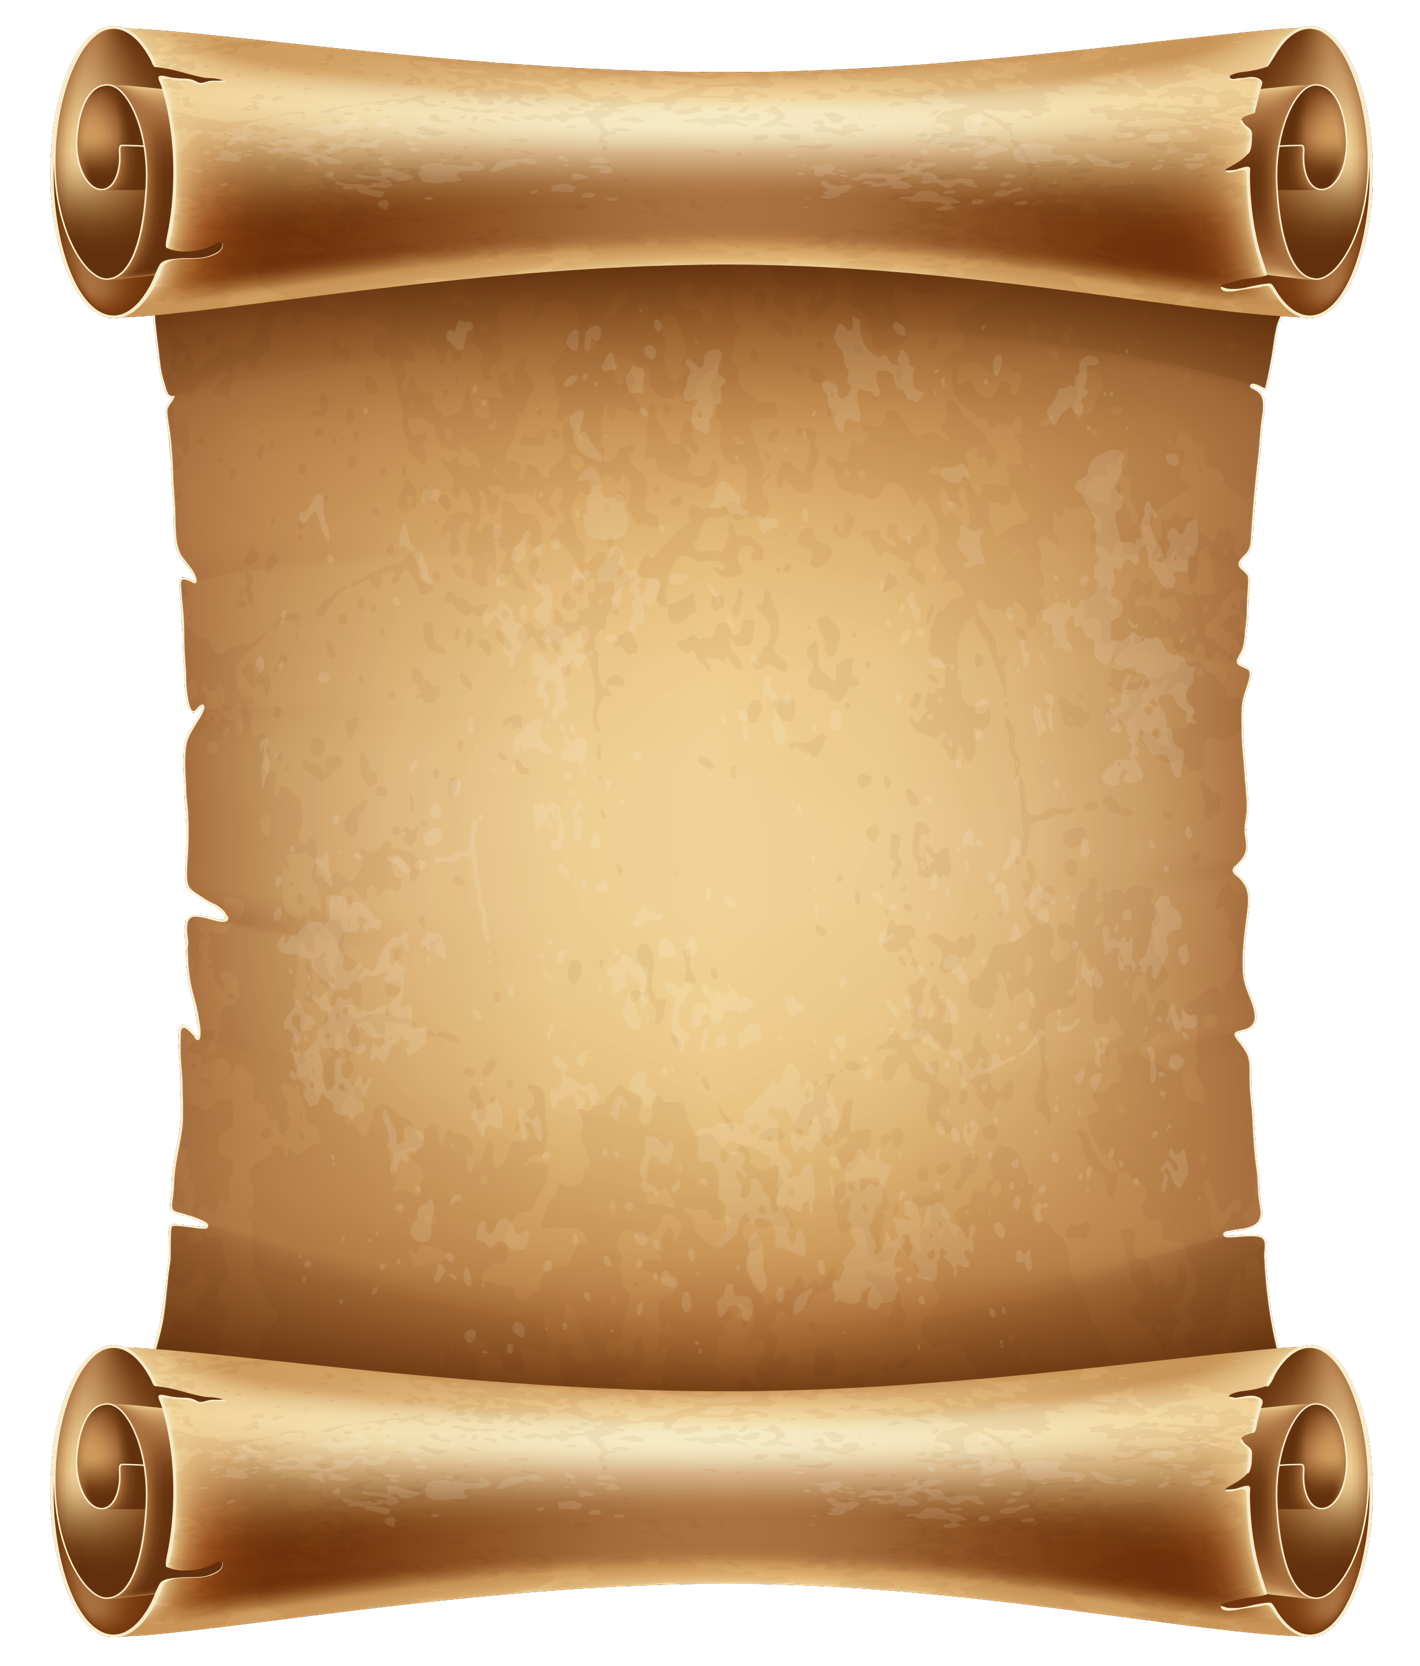
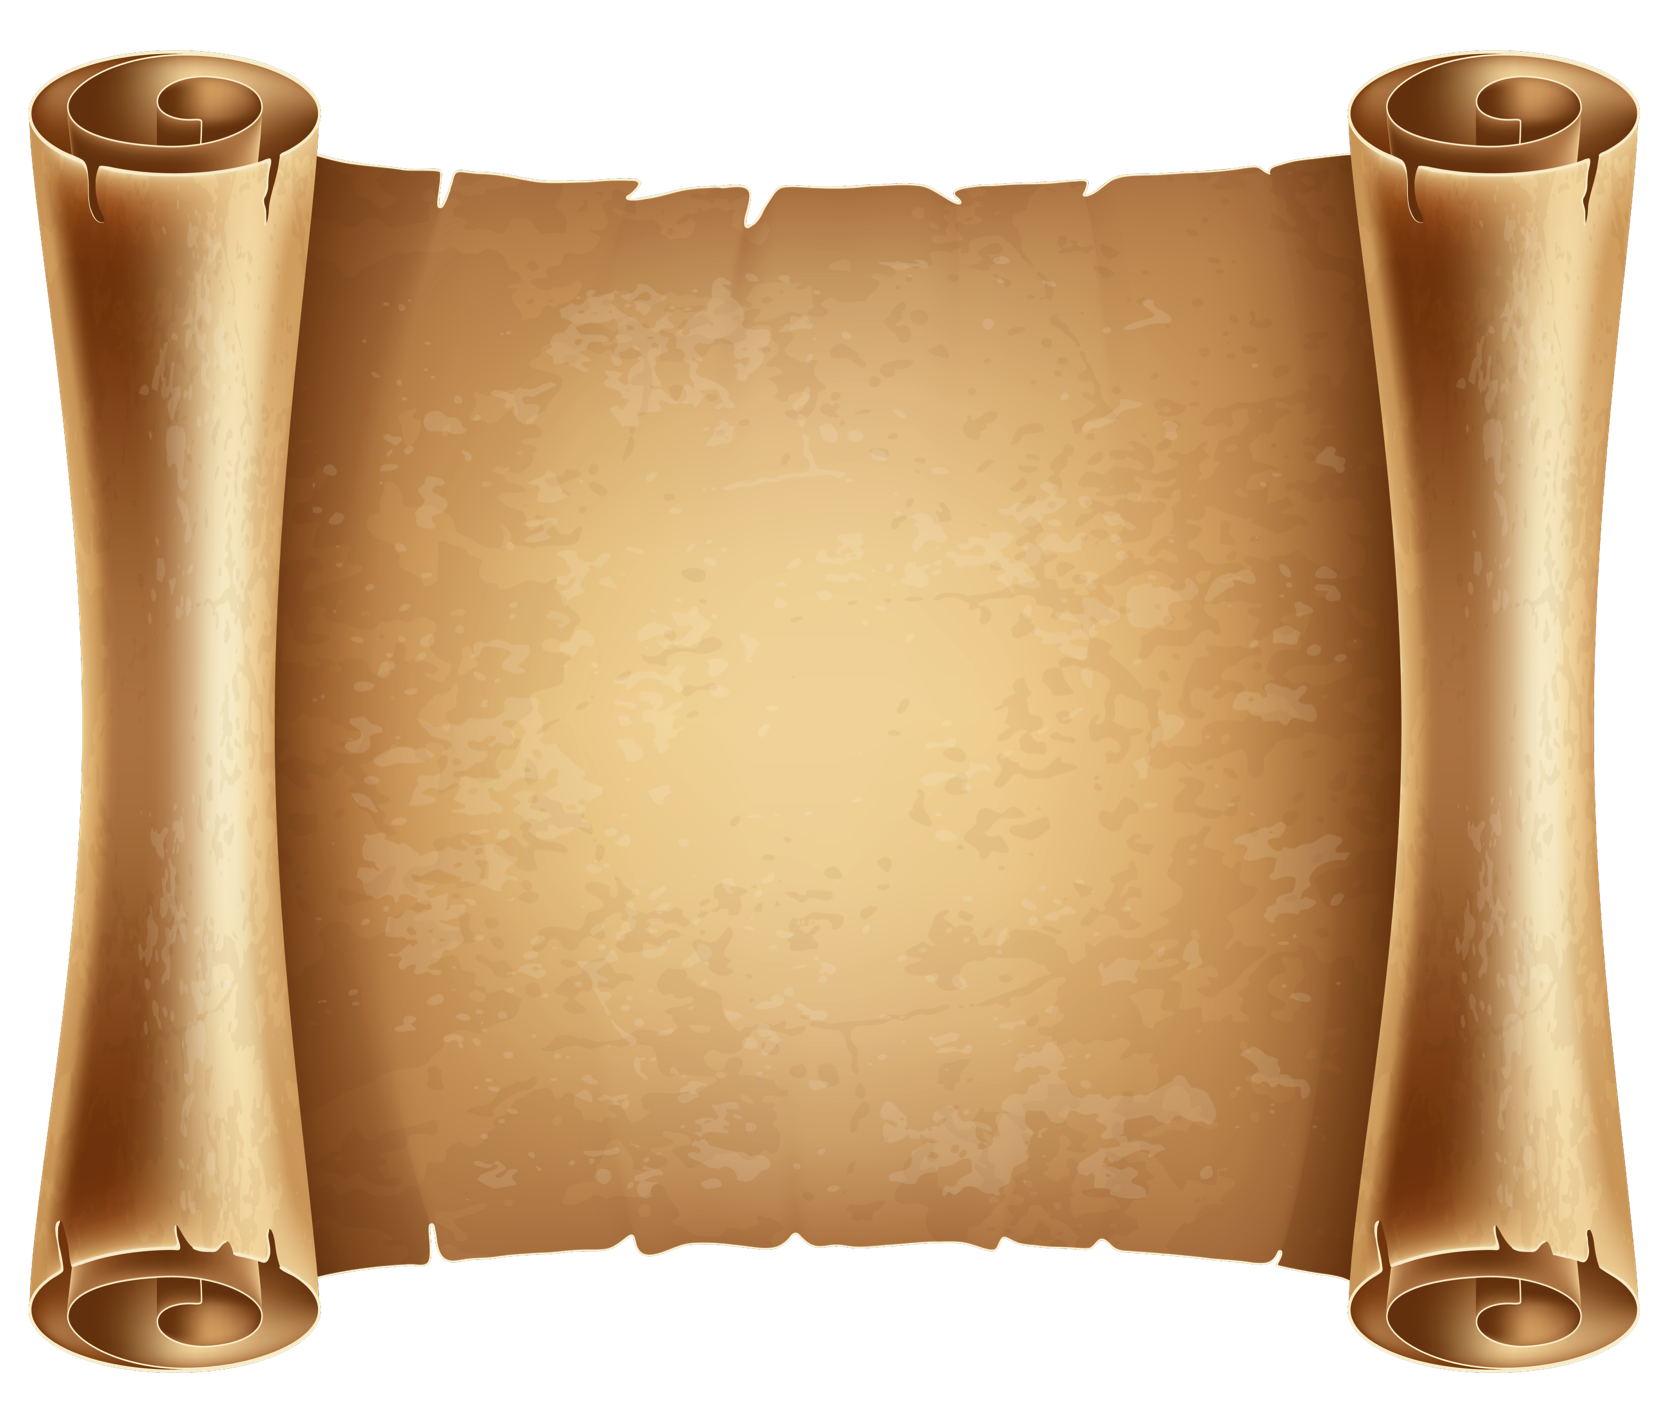
horizonal scroll

diff --git a/src/main/webapp/css/style.css b/src/main/webapp/css/style.css
@@ -140,17 +140,18 @@ table {
 }
 
 .scroll {
-  height: 700px;
+  height: 800px;
   background-image: url(scroll2.png);
   text-align: center;
   background-size: cover;
   background-position: center;
   background-repeat: no-repeat;
-  width: 500px;
+  width: 1000px;
   /* max-height: 50%; */
   /* border: solid black 2px; */
   display: flex;
   flex-direction: column;
+  margin: auto;
 }
 
 .scroll p {
